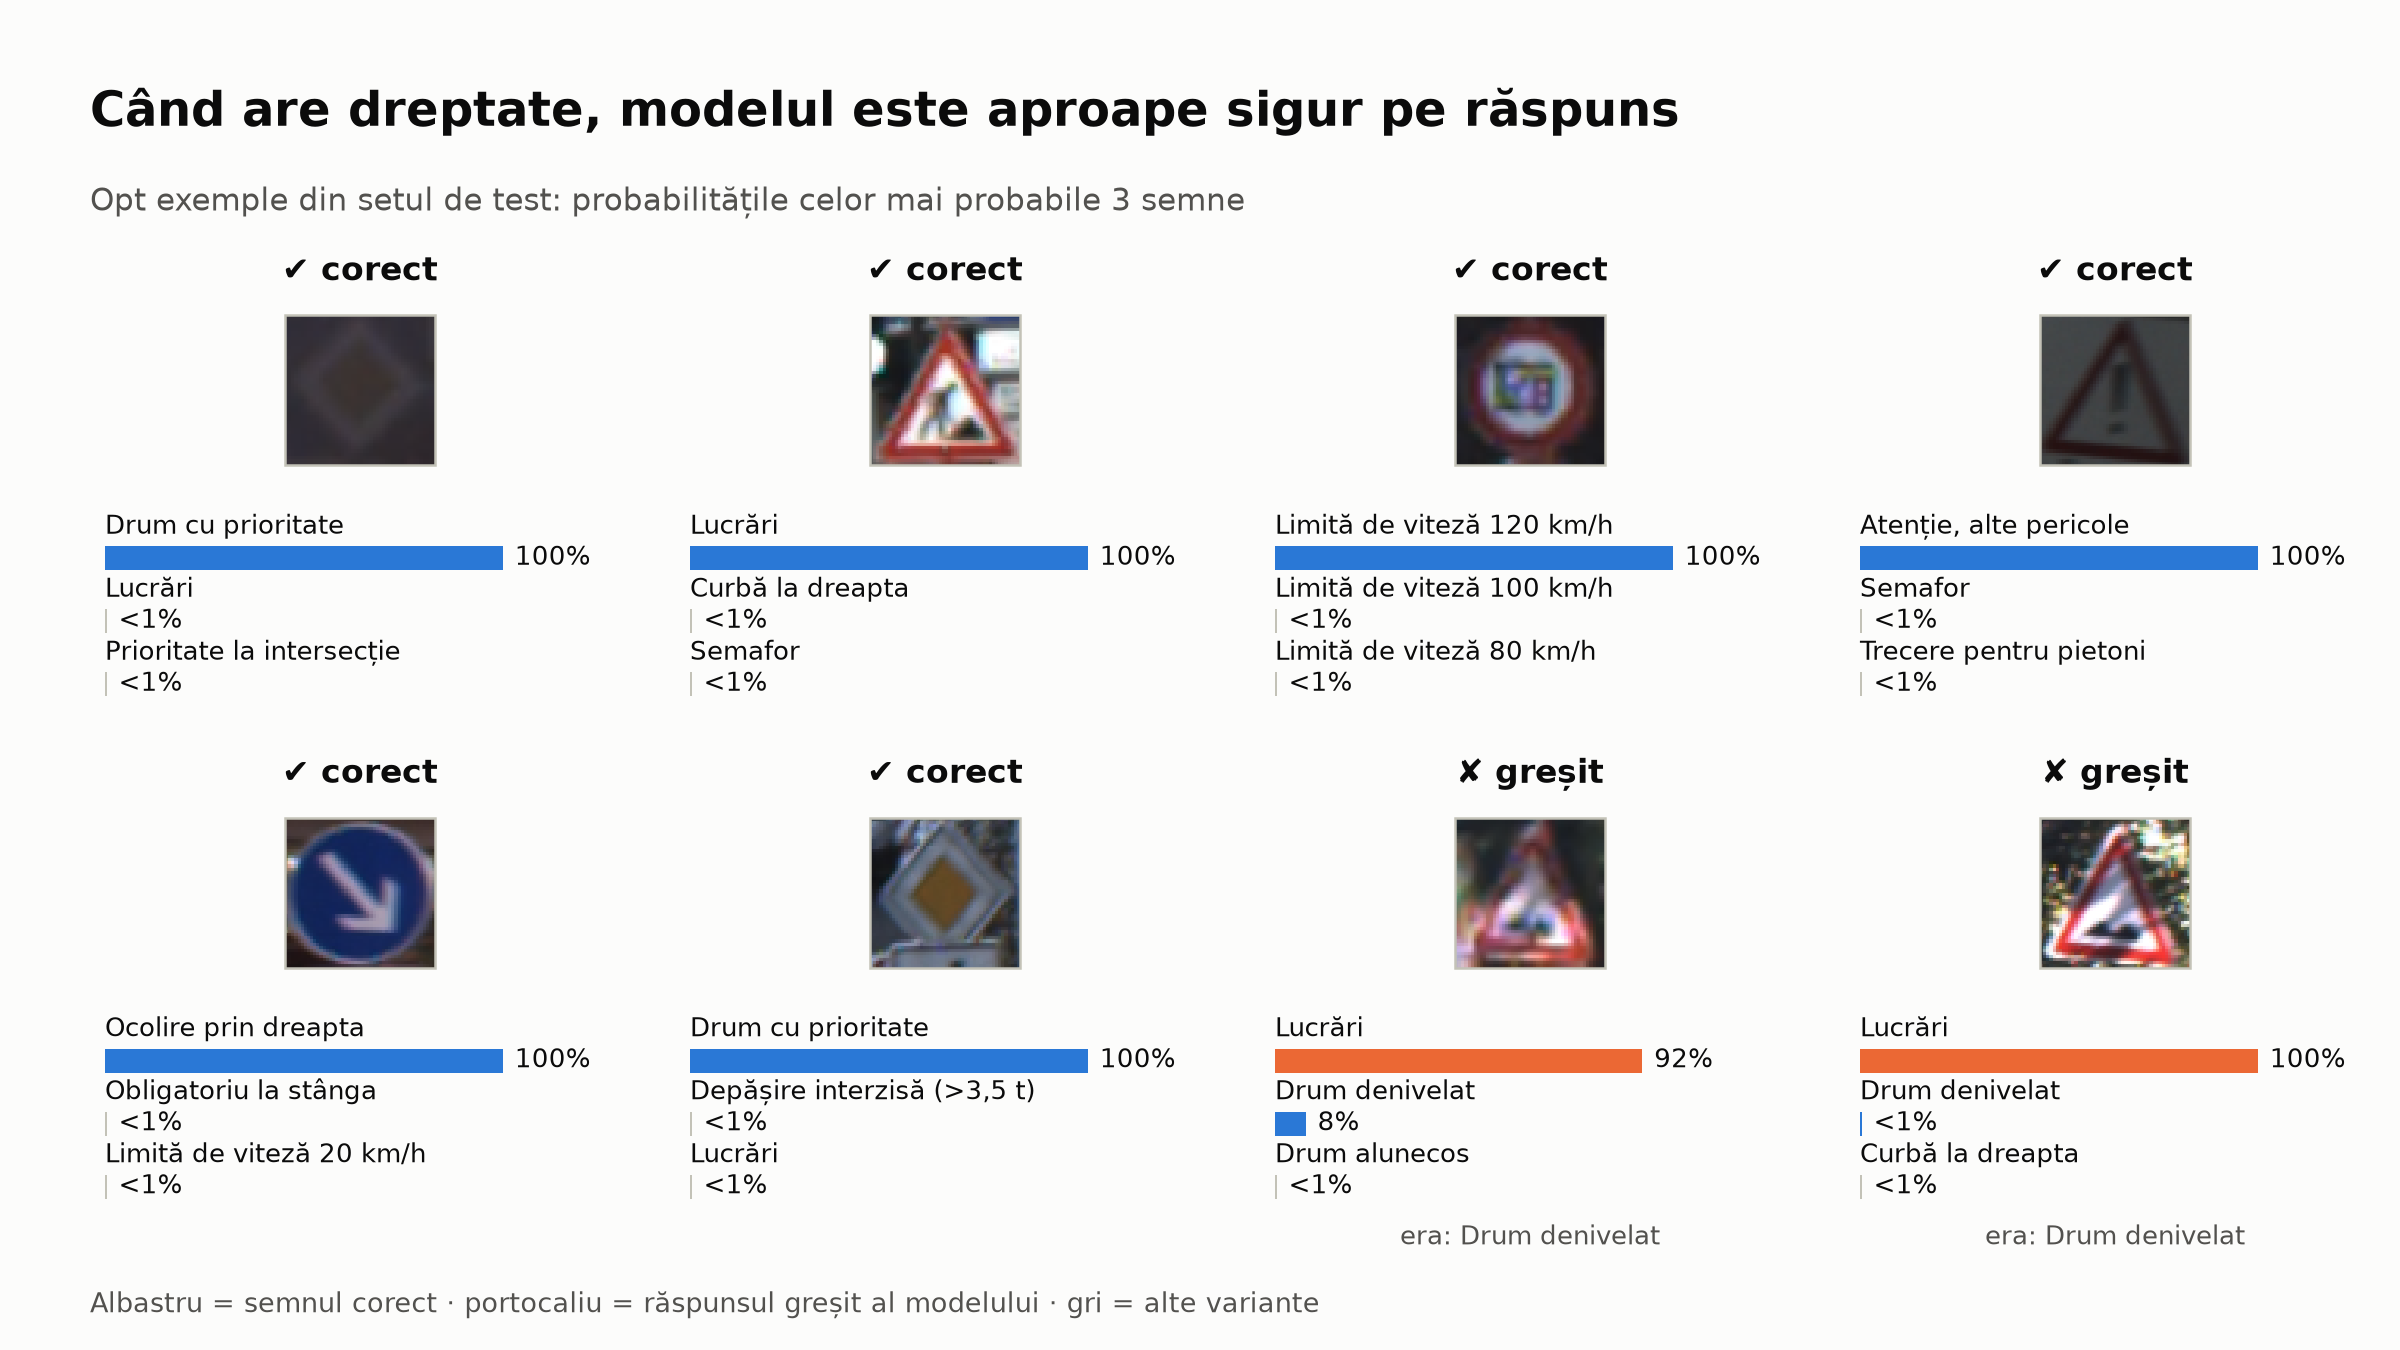
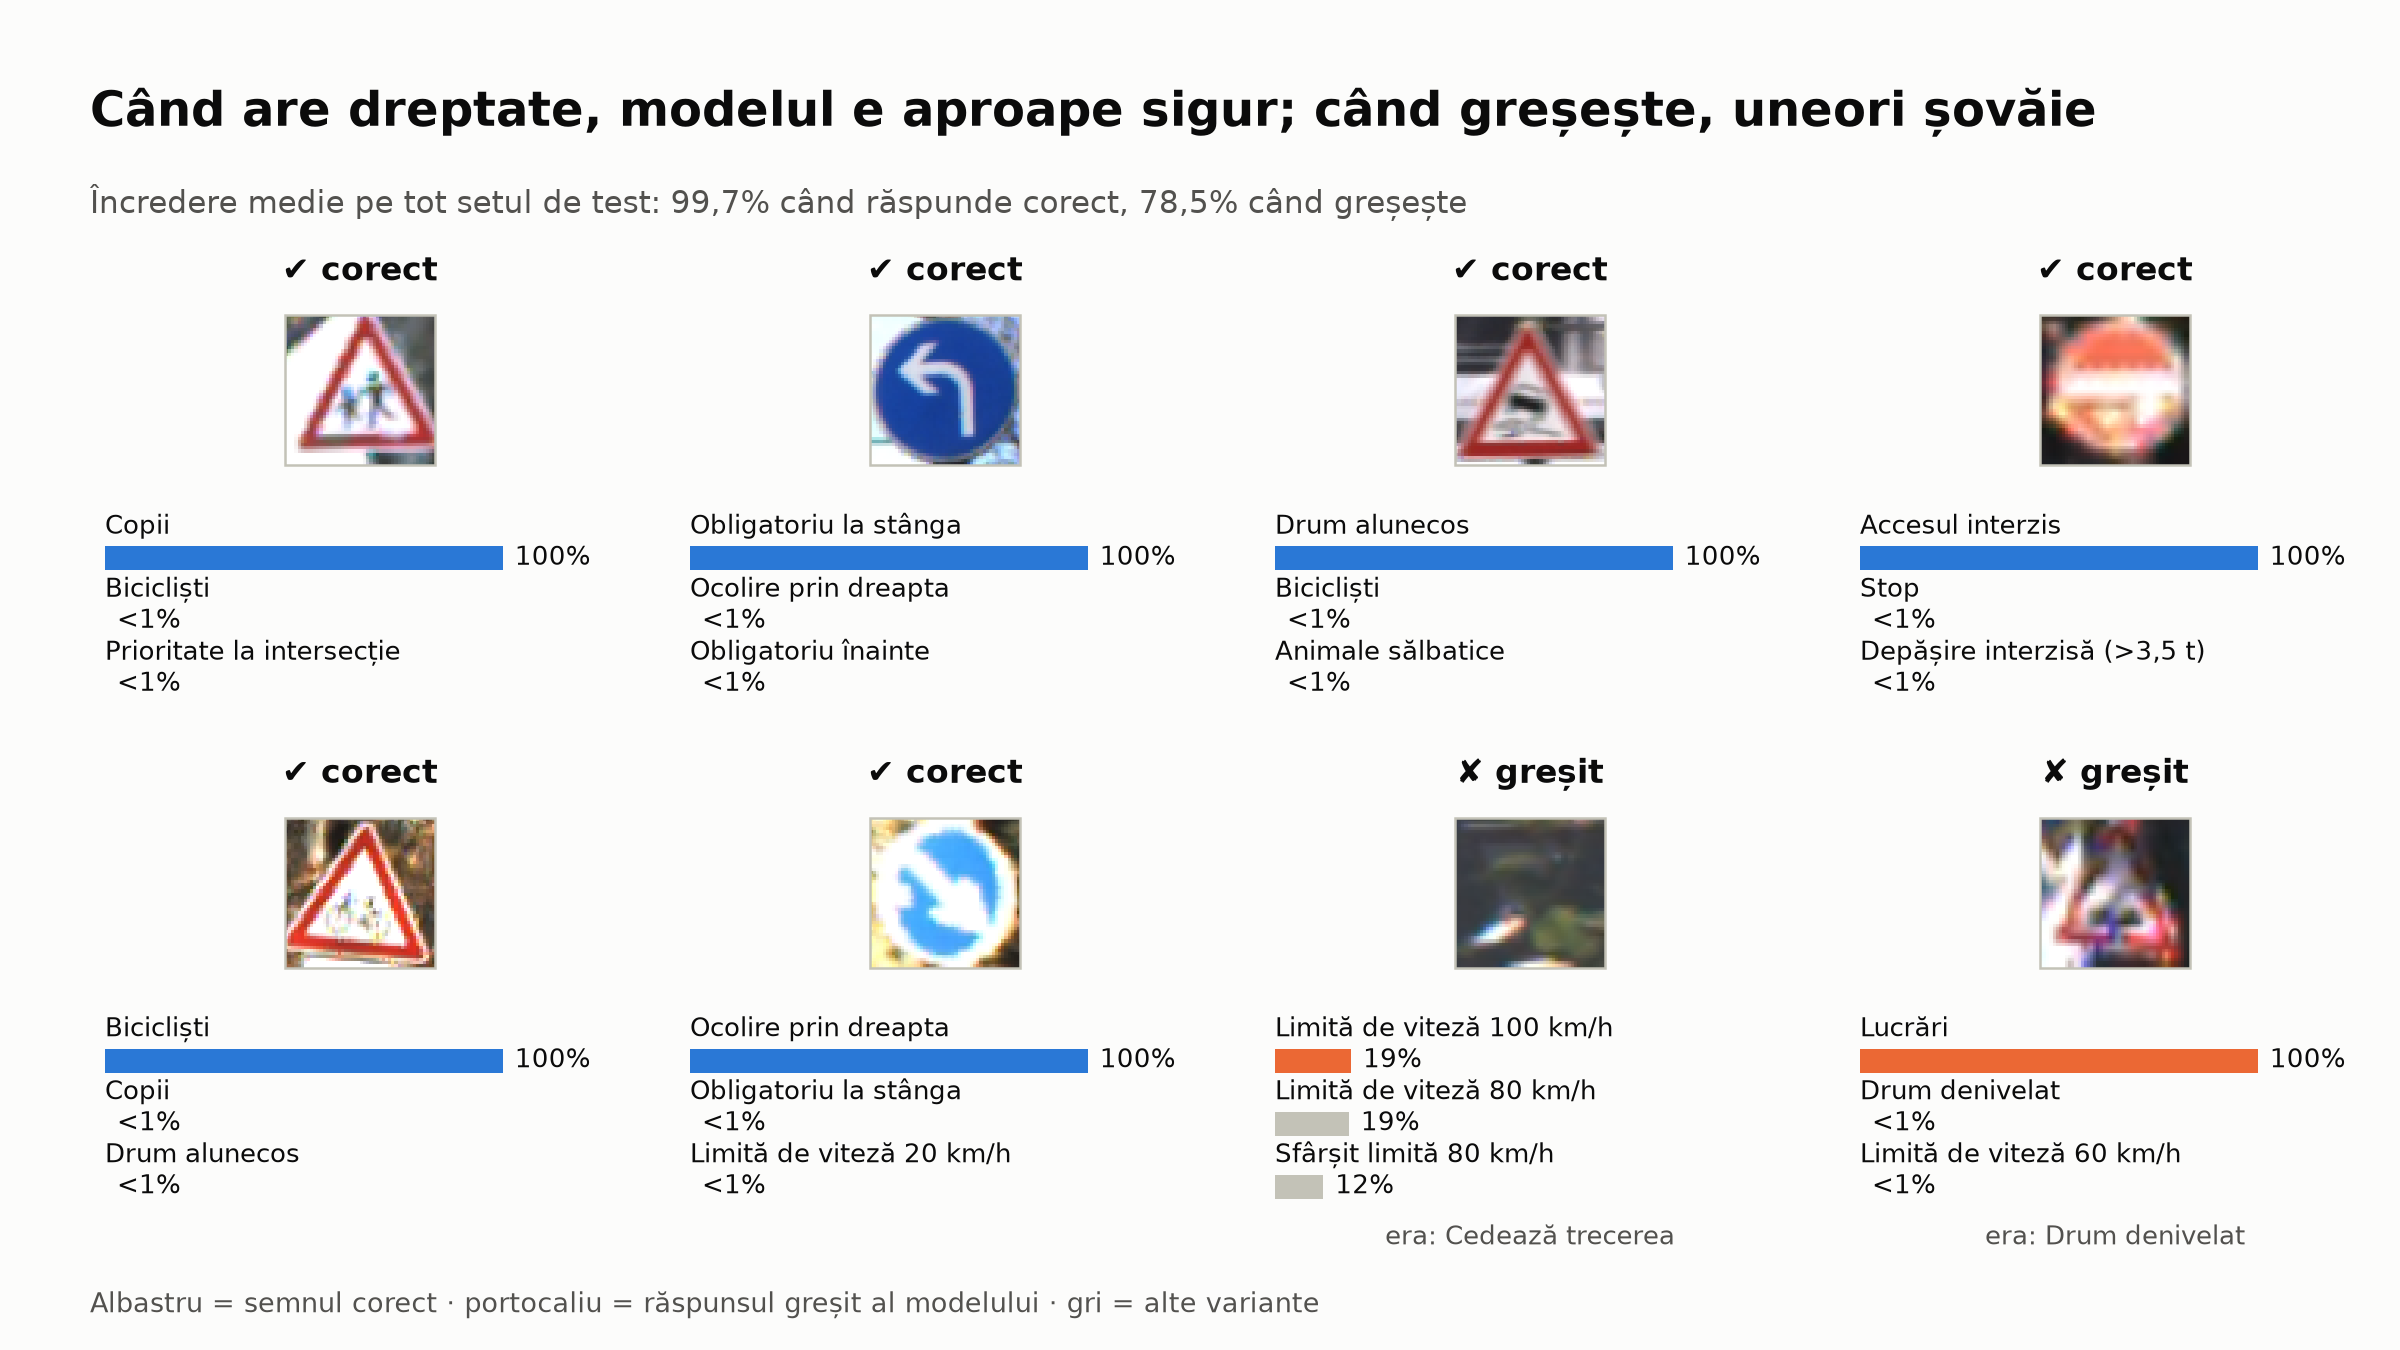
fix: honest example selection and computed captions in presentation figures

diff --git a/src/traffic_signs/presentation.py b/src/traffic_signs/presentation.py
@@ -83,15 +83,32 @@ def top_confused_pairs(y_true, y_pred, k: int = 5) -> list[tuple[int, int, int, 
 
 
 def select_examples(y_true, y_pred, probs, n_correct: int = 6, n_wrong: int = 2,
-                    seed: int = 42) -> list[int]:
-    """Indici determiniști: n_correct predicții corecte, apoi n_wrong greșite."""
-    y_true, y_pred = np.asarray(y_true), np.asarray(y_pred)
+                    seed: int = 42, eligible=None) -> list[int]:
+    """Indici determiniști: n_correct predicții corecte, apoi n_wrong greșite.
+
+    Greșitele: prima cu cea mai mică încredere, a doua cu cea mai mare (restul, aleatoare).
+    `eligible` (mască booleană, opțional) restrânge alegerea exemplelor corecte.
+    """
+    y_true, y_pred, probs = np.asarray(y_true), np.asarray(y_pred), np.asarray(probs)
     rng = np.random.default_rng(seed)
-    right = np.flatnonzero(y_true == y_pred)
+    ok = y_true == y_pred
+    if eligible is not None:
+        ok &= np.asarray(eligible, dtype=bool)
+    right = np.flatnonzero(ok)
     wrong = np.flatnonzero(y_true != y_pred)
     pick_r = rng.choice(right, size=min(n_correct, len(right)), replace=False)
-    pick_w = rng.choice(wrong, size=min(n_wrong, len(wrong)), replace=False)
-    return [int(i) for i in pick_r] + [int(i) for i in pick_w]
+    conf = probs[wrong, y_pred[wrong]]
+    order = wrong[np.argsort(conf, kind="stable")]
+    pick_w: list[int] = []
+    for cand in (order[:1], order[::-1][:1]):  # cea mai nesigură, apoi cea mai sigură
+        for i in cand:
+            if int(i) not in pick_w and len(pick_w) < n_wrong:
+                pick_w.append(int(i))
+    rest = [int(i) for i in wrong if int(i) not in pick_w]
+    extra = n_wrong - len(pick_w)
+    if extra > 0 and rest:
+        pick_w += [int(i) for i in rng.choice(rest, size=min(extra, len(rest)), replace=False)]
+    return [int(i) for i in pick_r] + pick_w
 
 
 # --- Helpere de desen ---
@@ -143,8 +160,9 @@ def _hbars(ax, items, x, y_top, width, bar_h=0.26, row_h=0.62, label_size=13.5,
     for i, (name, p, color) in enumerate(items):
         y = y_top - i * row_h
         ax.text(x, y, name, fontsize=label_size, color=INK, ha="left", va="bottom")
-        w = max(p, 0.004) * width * scale_frac
-        ax.add_patch(Rectangle((x, y - bar_h - 0.04), w, bar_h, fc=color, ec="none", zorder=2))
+        w = p * width * scale_frac
+        if p >= 0.005:  # sub 0,5% nu desenăm bara
+            ax.add_patch(Rectangle((x, y - bar_h - 0.04), w, bar_h, fc=color, ec="none", zorder=2))
         label = "<1%" if p < 0.005 else pct(p, 0)
         ax.text(x + w + 0.08, y - 0.04 - bar_h / 2, label, fontsize=value_size,
                 color=INK, ha="left", va="center")
@@ -334,7 +352,8 @@ def plot_overfitting(base: pd.DataFrame, no_reg: pd.DataFrame, out_path: Path,
              "Fără regularizare, modelul «tocește» datele de antrenare",
              fontsize=23, fontweight="bold", color=INK, ha="left", va="center")
     fig.text(0.6 / W, 1 - 1.35 / H,
-             f"Fără regularizare, antrenarea ajunge la 100%, dar validarea rămâne cu {gap_noreg:.1f} puncte mai jos".replace(".", ","),
+             f"Fără regularizare, antrenarea ajunge la {pct(no_reg['accuracy'].iloc[-1]).replace(',0%', '%')}, dar "
+             f"validarea rămâne cu {f'{gap_noreg:.1f}'.replace('.', ',')} puncte mai jos",
              fontsize=15, color=INK2, ha="left", va="center")
     for ax, hist, name in ((axes[0], base, "De bază (cu regularizare)"),
                            (axes[1], no_reg, "Fără regularizare")):

diff --git a/scripts/make_presentation_figures.py b/scripts/make_presentation_figures.py
@@ -38,14 +38,24 @@ def main(out_dir: Path = FIGURES_DIR) -> None:
     # 1. Pipeline: un exemplu bine clasificat (Stop, imagine mare, încredere mare)
     conf = probs.max(axis=1)
     ok = np.flatnonzero((y_true == 14) & (y_pred == 14) & (conf > 0.99) & (test["width"].to_numpy() >= 60))
+    if len(ok) == 0:  # rezervă: orice exemplu corect și sigur
+        ok = np.flatnonzero((y_true == y_pred) & (conf > 0.99))
     row = test.iloc[int(ok[0])]
+    ex_class = int(y_true[ok[0]])
     full = load_image(row["path"])
     top3 = [(class_name(c), p) for c, p in pres.top_k(probs[ok[0]], 3)]
     pres.plot_pipeline(full, crop_roi(full, *roi_of(row)), prepare(row["path"], IMG_SIZE_CNN, roi_of(row)),
-                       top3, class_name(14), int(model.count_params()), out_dir / "pres_pipeline.png")
+                       top3, class_name(ex_class), int(model.count_params()), out_dir / "pres_pipeline.png")
 
     # 2. Predicții: 6 corecte + 2 greșite
-    idx = pres.select_examples(y_true, y_pred, probs, 6, 2, seed=42)
+    # exemple corecte suficient de luminoase (verificăm un eșantion determinist)
+    rng = np.random.default_rng(42)
+    pool = rng.choice(np.flatnonzero(y_true == y_pred), size=300, replace=False)
+    bright = np.zeros(len(test), dtype=bool)
+    for i in pool:
+        r = test.iloc[i]
+        bright[i] = prepare(r["path"], IMG_SIZE_CNN, roi_of(r)).mean() > 0.35
+    idx = pres.select_examples(y_true, y_pred, probs, 6, 2, seed=42, eligible=bright)
     items = []
     for i in idx:
         r = test.iloc[i]
@@ -57,8 +67,9 @@ def main(out_dir: Path = FIGURES_DIR) -> None:
           "| medie corecte:", conf[y_true == y_pred].mean(), "| medie greșite:", conf[y_true != y_pred].mean())
     pres.plot_predictions(
         items, out_dir / "pres_predictions.png",
-        "Când are dreptate, modelul este aproape sigur pe răspuns",
-        "Opt exemple din setul de test: probabilitățile celor mai probabile 3 semne")
+        "Când are dreptate, modelul e aproape sigur; când greșește, uneori șovăie",
+        f"Încredere medie pe tot setul de test: {pres.pct(conf[y_true == y_pred].mean())} când răspunde corect, "
+        f"{pres.pct(conf[y_true != y_pred].mean())} când greșește")
 
     # 3. Acuratețea pe clasă
     per_class = pd.read_csv(REPORTS / "baseline" / "per_class.csv")

diff --git a/tests/test_presentation.py b/tests/test_presentation.py
@@ -112,3 +112,32 @@ def test_plot_dataset(tmp_path):
     out = tmp_path / "g.png"
     p.plot_dataset(stats, metas, out)
     _assert_png(out)
+
+
+def test_select_examples_foloseste_probs_pentru_greseli():
+    y_true = np.array([0, 0, 0, 0, 0, 0, 1, 1])
+    y_pred = np.array([0, 0, 0, 0, 1, 1, 0, 1])
+    probs = np.full((8, 2), 0.5)
+    probs[4] = [0.1, 0.9]  # greșită, încredere 0,9 (cea mai mare)
+    probs[5] = [0.4, 0.6]  # greșită, încredere 0,6 (cea mai mică)
+    probs[6] = [0.7, 0.3]  # greșită, încredere 0,7
+    idx = p.select_examples(y_true, y_pred, probs, n_correct=2, n_wrong=2, seed=1)
+    assert idx[2:] == [5, 4]
+
+
+def test_select_examples_putine_greseli():
+    y_true = np.array([0, 1, 0, 1, 0])
+    y_pred = np.array([0, 1, 0, 1, 1])
+    probs = np.full((5, 2), 0.5)
+    idx = p.select_examples(y_true, y_pred, probs, n_correct=3, n_wrong=2, seed=0)
+    assert len(idx) == 4 and idx[-1] == 4
+
+
+def test_select_examples_eligible_restrange_corectele():
+    y_true = np.zeros(10, dtype=int)
+    y_pred = np.zeros(10, dtype=int)
+    y_pred[9] = 1
+    probs = np.full((10, 2), 0.5)
+    mask = np.arange(10) >= 5
+    idx = p.select_examples(y_true, y_pred, probs, n_correct=3, n_wrong=1, eligible=mask)
+    assert all(i >= 5 for i in idx[:3])
